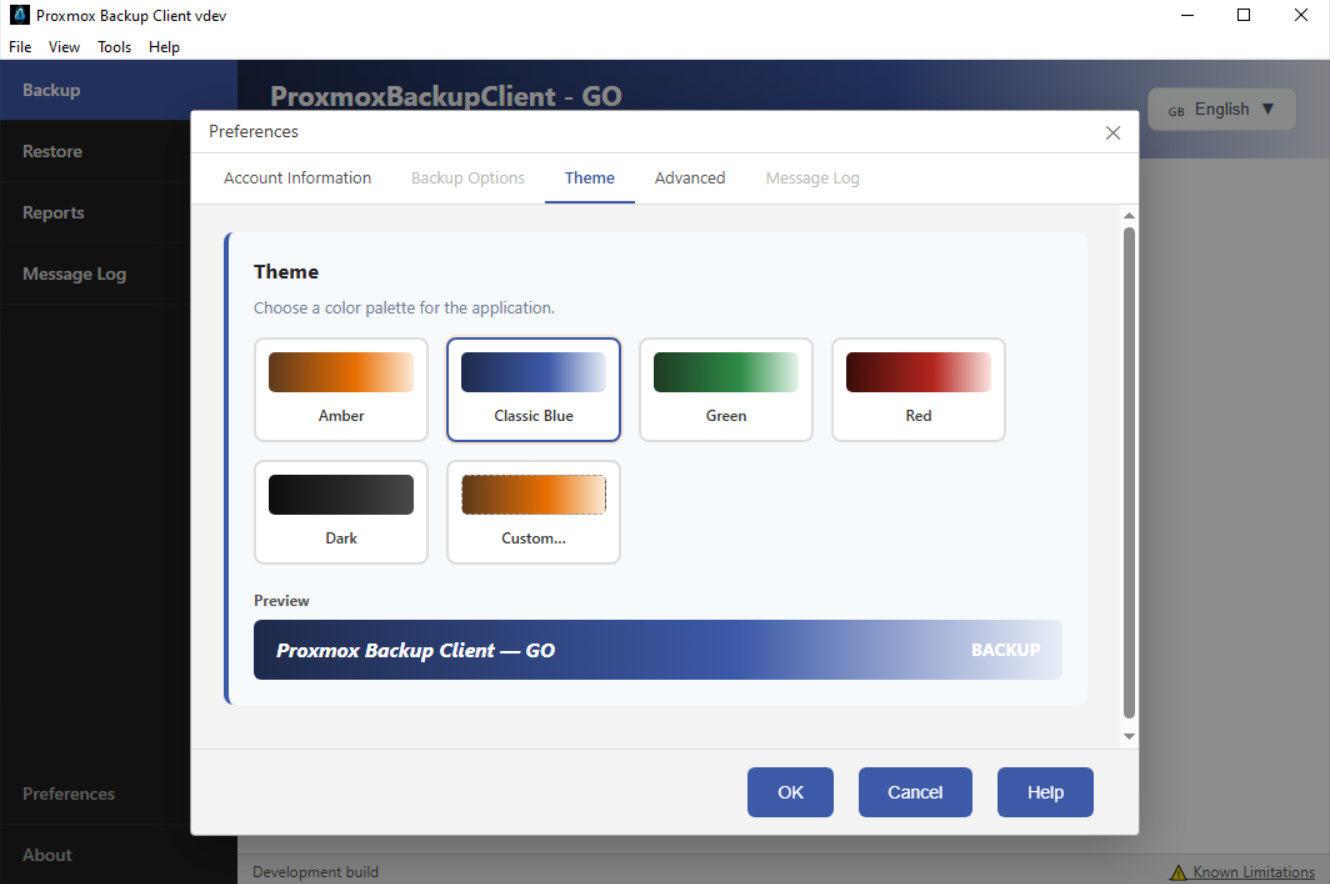
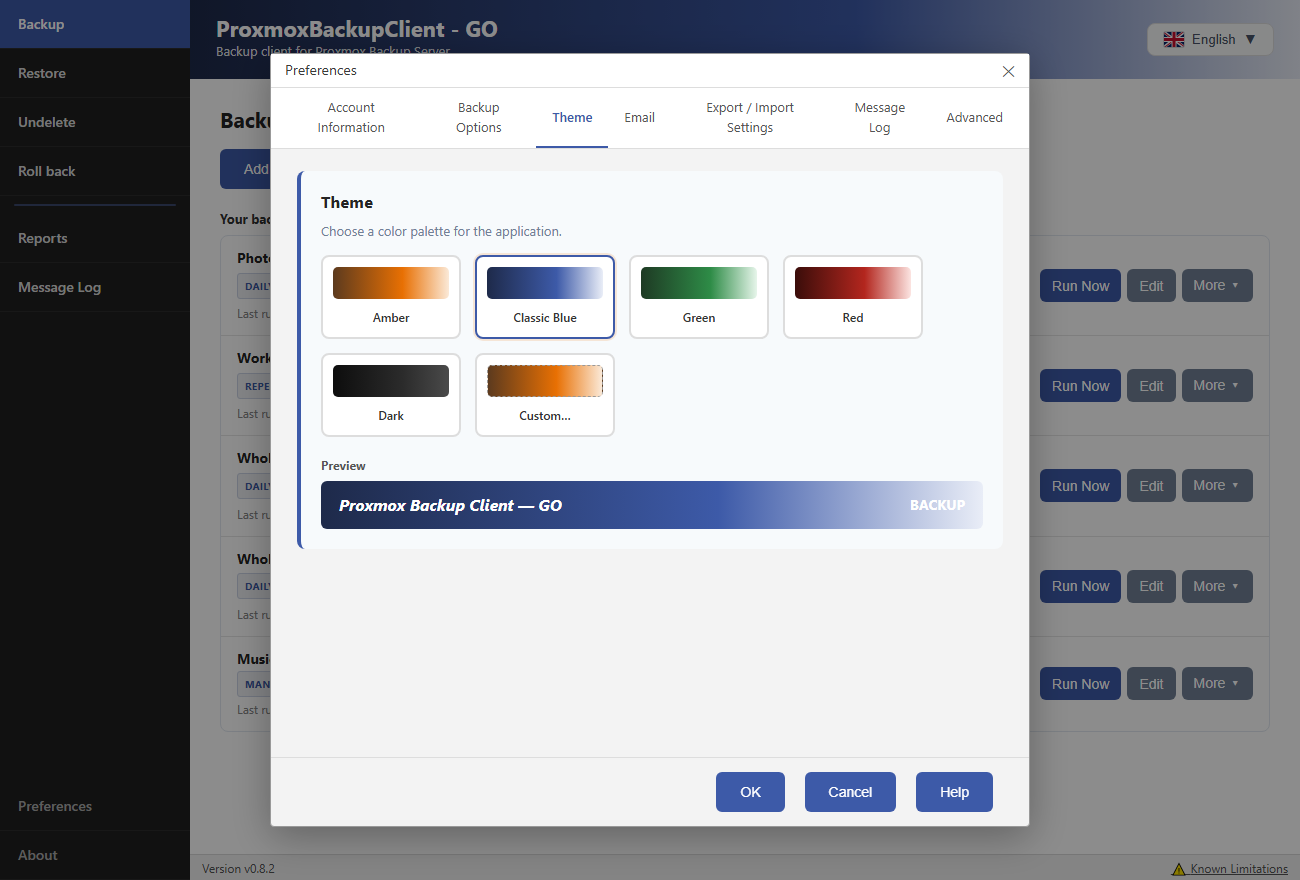
Docs: retake the out-of-date screenshots
The 20 GUI screenshots from late September and early October showed the
old side menu, cards without the More menu, a BETA banner on Restore and
the old Preferences tabs. Retaken from the current frontend with the UI
harness (stand-in bindings, one consistent home setup: two servers, five
Backup Sets, October 2026), same file names and sizes so every link keeps
working. gui-restore-progress now shows the tree with the restore running
(the card sits above it); gui-preferences-advanced shows the Backup
Options tab, where the parallel restore option now lives (README caption
updated). nimbus-*.png (upstream's) and gui-backup-progress.png (already
current) unchanged.

TODO: the screenshot item is done; it is replaced by the app text oddities
seen in the shots (raw "success" status, English restore report names, no
thousands separators, the disk picker's run-together English text, and
others).

diff --git a/TODO.md b/TODO.md
@@ -64,7 +64,7 @@ What is still open, as of 2026-10-13. Finished work is in [CHANGELOG.md](CHANGEL
 - [ ] Native-speaker review of the machine-translated strings (the 17 languages other than English and French), the encryption texts first.
 - [ ] The 12 translated READMEs were regenerated from the English one on 2026-10-13 (condensed, machine-translated): keep them in step when the English README changes, and have native speakers look them over.
 - [ ] `MachineBackupConfig` (machine backup settings) has hard-coded English labels; move them to the translations.
-- [ ] Screenshots in `docs/screenshots` date from late September (old side menu, no More menu or VSS badge, a BETA banner on Restore, the old Preferences tabs); only `gui-backup-progress.png` is current. Retake them with the UI harness or a real run. The `nimbus-*.png` files are upstream's.
+- [ ] App text seen while retaking the screenshots (2026-10-13): Reports shows the status as raw "success" in every language; restore reports are named "Restore of ..." in English; report numbers have no thousands separators ("181912"); the disk picker runs path, size and model together and is English only; the server test message names the server's ID, not its name; the server description box uses a monospace font; some English help texts (the parallel restore and read-ahead options, the theme preview) contain dashes.
 
 ## Command-line tools
 

diff --git a/README.md b/README.md
@@ -272,7 +272,7 @@ The first three accept `-keyfile` and `-keyfile-passphrase` for encrypted snapsh
 <td width="33%">
 
 [<img src="docs/screenshots/gui-preferences-advanced.png" width="280">](docs/screenshots/gui-preferences-advanced.png)
-**Advanced options**: explained honestly: parallel restore extraction is experimental and measured *slower* on our own test hardware
+**Backup options**: explained honestly: parallel restore extraction is experimental and measured *slower* on our own test hardware
 
 </td>
 </tr>
